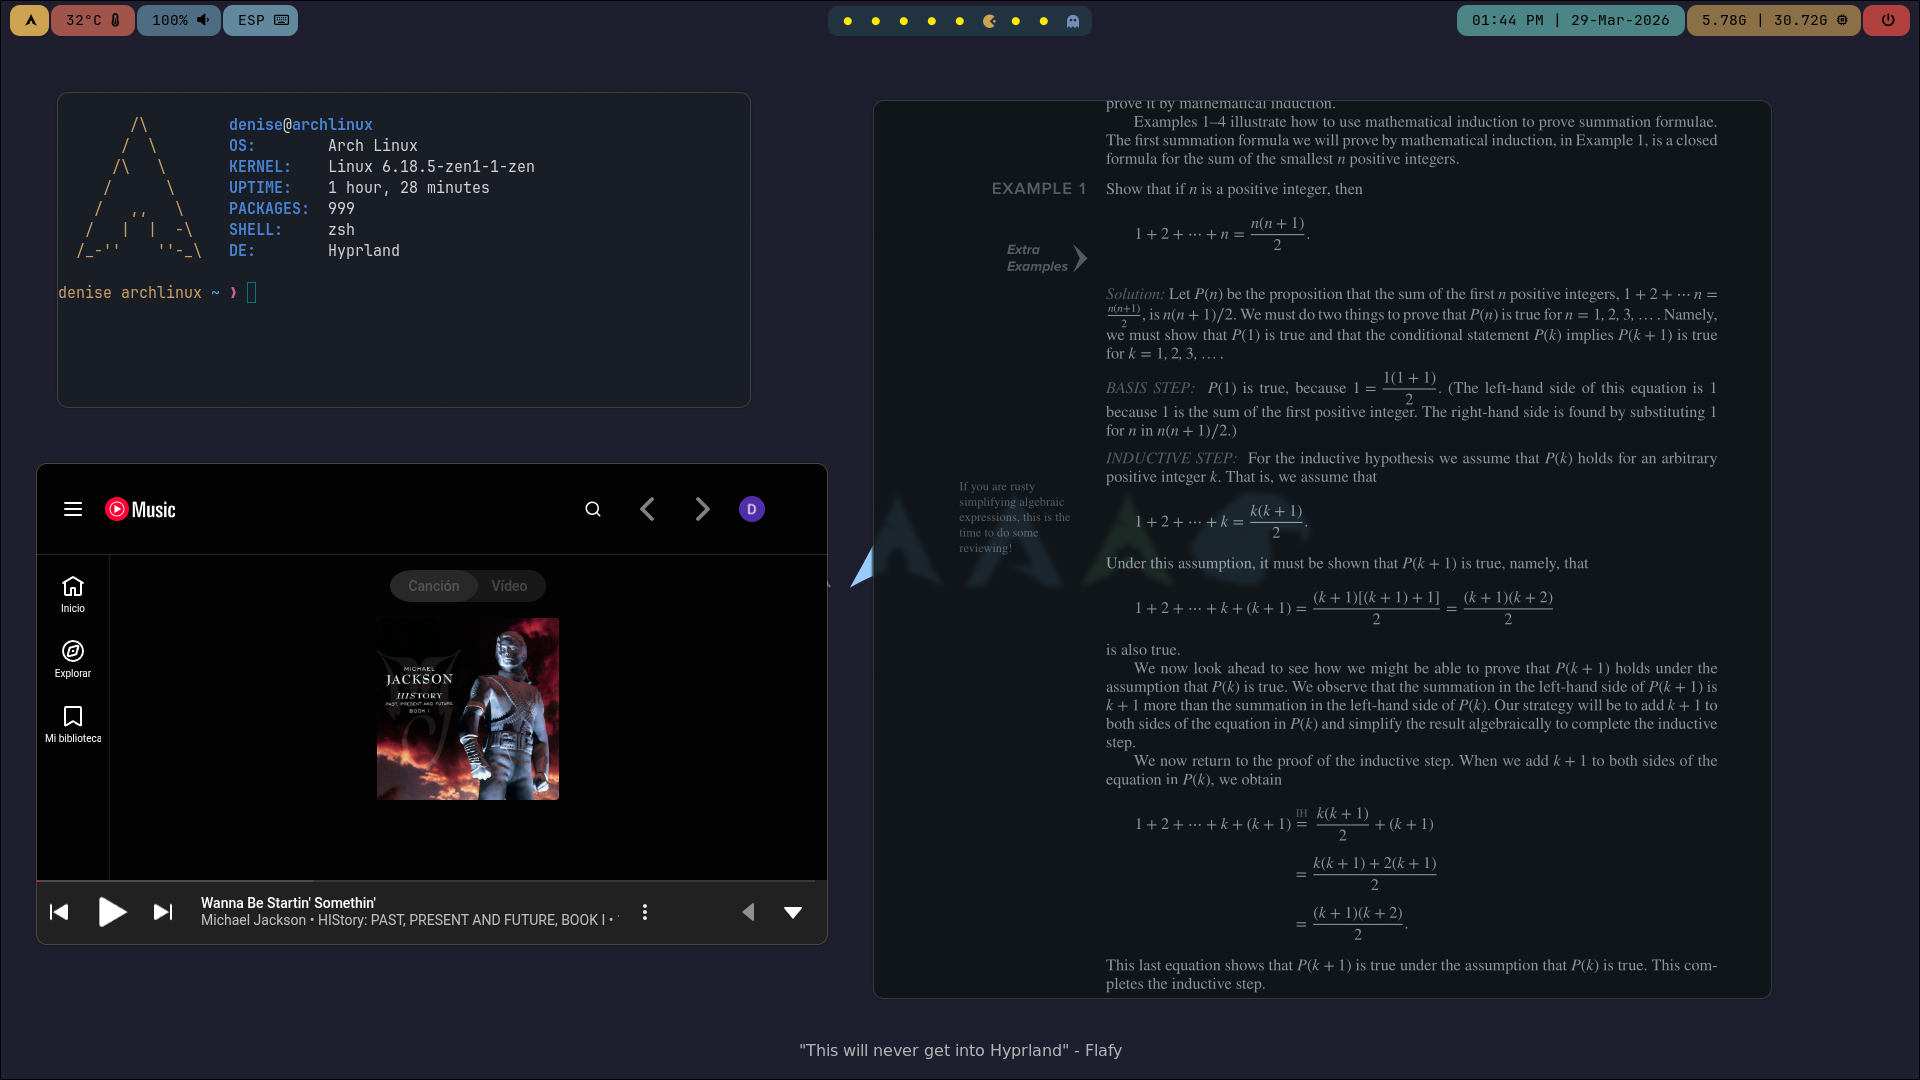
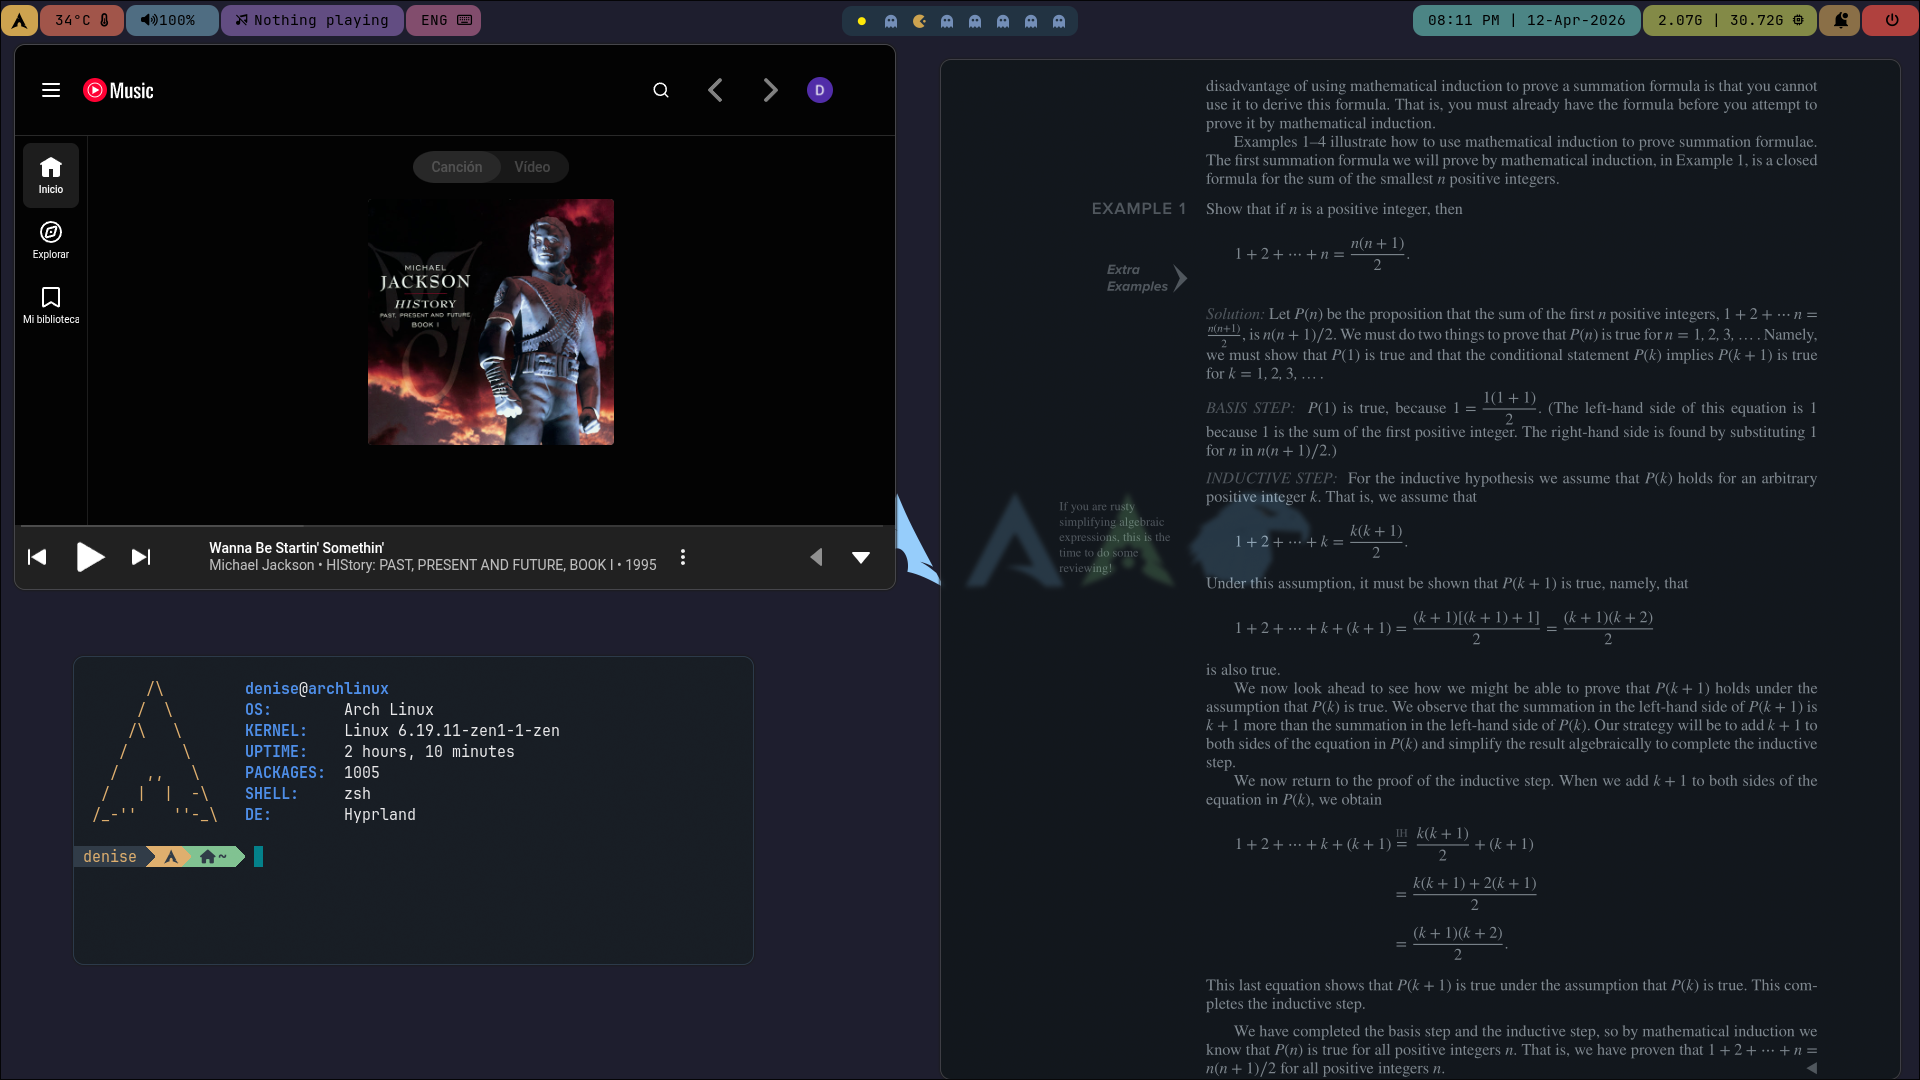
feat: add waybar music module

diff --git a/waybar/style.css b/waybar/style.css
@@ -11,87 +11,94 @@ window#waybar {
 }
 
 window#waybar.hidden {
-  opacity: 0.2;
+  opacity: 0;
 }
-
 
 #custom-archicon,
 #temperature,
 #pulseaudio,
+#custom-music,
 #language,
 #clock,
 #memory,
-#custom-power {
+#custom-power,
+#custom-notification {
   color: #000000;
   border-radius: 10px;
   margin-bottom: 6px;
   margin-top: 5px;
   margin-right: 1px;
-  margin-left: 1px; 
+  margin-left: 1px;
   padding: 0 15px;
 }
 
 #custom-archicon {
-  margin-left: 10px;
-}
-
-#custom-power {
-  margin-right: 10px;
-  padding: 4px 10px;
+  font-size: 20px;
+  padding-left: 10px;
 }
 
 #custom-archicon {
-    background-color: #CDA34F;
+  background-color: #cda34f;
 }
 
 #temperature {
-    background-color: #A1554A;
+  background-color: #a1554a;
 }
 
 #pulseaudio {
-    background-color: #4F6D82;
+  background-color: #4f6d82;
+}
+
+#custom-music {
+  background-color: #624D82;
 }
 
 #language {
-    background-color: #62889D;
+  background-color: #824D6D;
 }
 
 #workspaces {
-    background-color: #223342;
-    border-radius: 10px;
-    margin: 6px 5px;
-    padding: 0px 6px;
+  background-color: #223342;
+  border-radius: 10px;
+  margin: 6px 5px;
+  padding: 0px 6px;
 }
 
 #workspaces button {
   font-size: 20px;
-  color: #738EB7;             
+  color: #738eb7;
   background: transparent;
   padding: 4px 6px;
   border-radius: 6px;
-  transition: color 0.2s ease, background 0.2s ease;
+  transition:
+    color 0.2s ease,
+    background 0.2s ease;
 }
 
 #workspaces button.persistent {
-  color: #FFE808;             
+  color: #ffe808;
 }
 
 #workspaces button.empty {
-  color: #738EB7;
+  color: #738eb7;
 }
 
 #workspaces button.active {
-  color: #CDA34F;
+  color: #cda34f;
 }
 
 #clock {
-    background-color: #4C8585;
+  background-color: #4c8585;
 }
 
 #memory {
-    background-color: #8A6F47;
+  background-color: #838A47;
+}
+
+#custom-notification {
+  background-color: #8A6F47;
 }
 
 #custom-power {
-    background-color: #B0413E;
+  background-color: #b0413e;
 }
